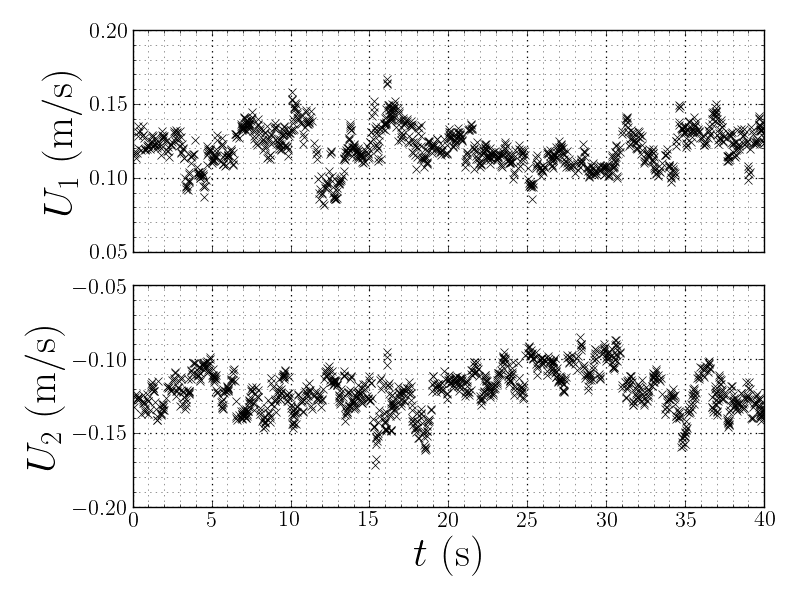
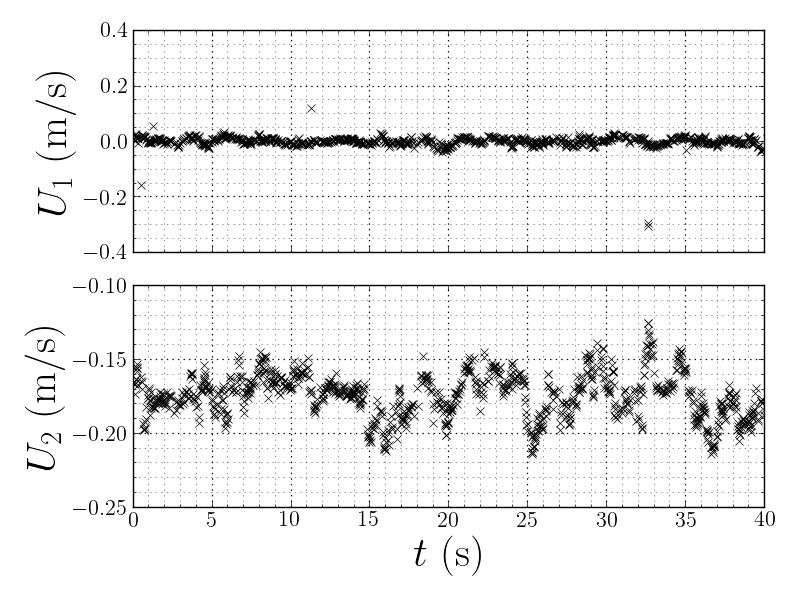
Added trasform for 45 deg probe angle

diff --git a/code/processingScript.py b/code/processingScript.py
@@ -15,6 +15,7 @@ import pandas as pd
 import glob
 from processingFunctions import txtToDataFrame
 from processingFunctions import timeAverage
+from processingFunctions import transform
 from FilterFunctions import Filter
 #
 ##########################################################################################
@@ -27,19 +28,15 @@ saveFil = True
 writeSpikeFrac = False
 #
 rawPathNames = 	[
-				'../data/rawData/dataQualityTests/8Hz/rotation0/angle0/*.txt',
-				'../data/rawData/dataQualityTests/8Hz/rotation0/angle2p7/*.txt',
-				'../data/rawData/dataQualityTests/8Hz/rotation90/angle0/*.txt',
-				'../data/rawData/dataQualityTests/8Hz/rotation90/angle2p7/*.txt',
-				'../data/rawData/dataQualityTests/8Hz/rotation45/angle0/*.txt',
-				'../data/rawData/dataQualityTests/8Hz/rotation45/angle2p7/*.txt',
+				'../data/rawData/dataQualityTests/8Hz/profiles/rotation0/*.txt',
+				'../data/rawData/dataQualityTests/8Hz/profiles/rotation45/*.txt',
 			]
 #
 #"../data/rawData/smoothPlate/4Hz/x400/1703XX_4Hz_x400/*.txt"
 #"../data/rawData/smoothPlate/16Hz/x400/170816_16Hz_x400/*.txt",
 #		"../data/rawData/smoothPlate/8Hz/x400/171214_8Hz_x400/*.txt"
 filterType = [	#'movingAverageFilter',
-#			'movingAverageFilter',
+			'movingAverageFilter',
 			'movingAverageFilter',
 #			'movingAverageFilter',
 #			'movingAverageFilterReynoldsStresses',
@@ -48,10 +45,11 @@ filterType = [	#'movingAverageFilter',
 #			'movingAverageFilterReynoldsStresses',
 #			'movingAverageFilterReynoldsStresses'
 		]
-filLoops = 	[0]#[1,2,1,2]# 0, 1, 2, 1, 2]
-NstdDev = 	[0]#[4,4,2,2]# 0, 4, 4, 2, 2]
-avWindow = [50]#,50]#[50, 50, 50, 50]
-saveNames = ['raw']#,'w50_MA_high']#['w50_MA_min', 'w50_MA_low','w50_MA_med','w50_MA_high']#['basicMin','basicMed']#'raw','min','low','med','high']
+filLoops = 	[0,2]#[1,2,1,2]# 0, 1, 2, 1, 2]
+NstdDev = 	[0,2]#[4,4,2,2]# 0, 4, 4, 2, 2]
+avWindow = [50,50]#,50]#[50, 50, 50, 50]
+probeRotationAngle = [0,45]
+saveNames = ['raw','w50_MA_high']#,'w50_MA_high']#['w50_MA_min', 'w50_MA_low','w50_MA_med','w50_MA_high']#['basicMin','basicMed']#'raw','min','low','med','high']
 #
 if writeData == True:
 	for j in range(len(rawPathNames)):
@@ -61,7 +59,7 @@ if writeData == True:
 			print(rawPath)
 			for fileName in glob.glob(rawPath):
 				print(fileName)				
-				td = txtToDataFrame(fileName)
+				tData = txtToDataFrame(fileName)
 #
 ##	3.	filter data
 				if saveFil == True:
@@ -71,13 +69,17 @@ if writeData == True:
 					tempSavePath[tempSavePath.index('rawData')] = 'processedData'			
 					filSaveName = str('/'.join(tempSavePath)+filSaveNameEnd)
 #					print(rawSaveName)
-				if isinstance(td,pd.DataFrame):
-					tempData = Filter(td,filterType[i],'mean',avWindow[i],'none',filLoops[i],NstdDev[i])
+				if isinstance(tData,pd.DataFrame):
+					ttData = Filter(tData,filterType[i],'mean',avWindow[i],'none',filLoops[i],NstdDev[i])
+					if probeRotationAngle[j] == 45:
+						tttData = transform(ttData)
+					else:
+						tttData = ttData
 #					print(filSaveName)
-					tempData.to_pickle(filSaveName)
+					tttData.to_pickle(filSaveName)
 #	
 ##	4.	apply averaging and append a final data series
-					dataNew  = timeAverage(tempData)
+					dataNew  = timeAverage(tttData)
 					dataNew['fileName'] = fileName.split("/")[-1]
 					if not isinstance(data,pd.DataFrame):
 						data = dataNew

diff --git a/code/profileAnalysis.py b/code/profileAnalysis.py
@@ -15,7 +15,8 @@ import matplotlib.pyplot as plt
 ###########################################################################################
 testProfiles = False
 findMeanSpikeFrac = False#True
-testTimeSeries = True
+testTimeSeries = False
+testRotationProfiles = True
 #
 ##	import data
 fileName4Hz = ['../data/processedData/smoothPlate/4Hz/x400/171211_4Hz_x400/4Hz_x400_averaged_raw.pkl',
@@ -50,6 +51,15 @@ fileName8Hz = ['../data/processedData/smoothPlate/8Hz/x400/171214_8Hz_x400/8Hz_x
 		'../data/processedData/smoothPlate/8Hz/x400/171214_8Hz_x400/8Hz_x400_averaged_w50_MA_med.pkl',
 		'../data/processedData/smoothPlate/8Hz/x400/171214_8Hz_x400/8Hz_x400_averaged_w50_MA_high.pkl']
 
+fileNameRotationTests = [
+		'../data/processedData/dataQualityTests/8Hz/profiles/rotation45/8hz_boundary_layer_rotation45_averaged_w50_MA_high.pkl',
+		'../data/processedData/dataQualityTests/8Hz/profiles/rotation0/8hz_boundary_layer_rotation0_averaged_w50_MA_high.pkl',
+		'../data/processedData/dataQualityTests/8Hz/profiles/rotation45/8hz_boundary_layer_rotation45_averaged_raw.pkl',
+		'../data/processedData/dataQualityTests/8Hz/profiles/rotation0/8hz_boundary_layer_rotation0_averaged_raw.pkl'	,	
+				]
+
+rotationTestLabels = ['45 deg, fil','fil','45 deg, raw','raw']
+
 markers = ['x','o','v','s','*','+','^','.','<','>','p']
 labels =  ['raw','MA, min', 'MA, med', 'MARS, min', 'MARS, low', 'MARS, med', 'MARS, high', 'MA W50, min', 'MA W50, low', 'MA W50, med', 'MA W50, high']
 
@@ -83,6 +93,37 @@ def plotter(X,Y,dataLabels,markers,xLabel,yLabel,writeName):
 	plt.close()
 #
 ###########################################################################################################
+if testRotationProfiles == True:
+#
+	data = [	pd.read_pickle(fileNameRotationTests[0]),
+			pd.read_pickle(fileNameRotationTests[1]),
+			pd.read_pickle(fileNameRotationTests[2]),
+			pd.read_pickle(fileNameRotationTests[3]),
+			  ]
+#
+#
+##	1.	test effect of filtering method
+##			-	raw
+##			-	basic, minimal filtering
+##			-	RSM,	 minimal filtering
+##			-	basic, medium filtering
+##			-	RSM,	 medium filtering
+	var = ["UxMean","uxRMS","uyRMS","uv"]
+	ylabels = [r'$\mu_u$ (m/s)',r'$\sigma_u$ (m/s)',r'$\sigma_v$ (m/s)',r'$\gamma_{uv}$, (m\textsuperscript{2}/s\textsuperscript{2})']
+	writeNames = [	str('../data/processedData/figures/dataQualityTests/rotationTest_Uprofile.png'),
+					str('../data/processedData/figures/dataQualityTests/rotationTest_uRMSprofile.png'),
+					str('../data/processedData/figures/dataQualityTests/rotationTest_vRMSprofile.png'),
+					str('../data/processedData/figures/dataQualityTests/rotationTest_uvProfile.png')
+				]
+	legend = True
+	for i in range(len(var)):
+		plotter(	[data[0]["z"],data[1]["z"],data[2]["z"],data[3]["z"]], [data[0][var[i]],data[1][var[i]],data[2][var[i]],data[3][var[i]]],
+				[rotationTestLabels[0],rotationTestLabels[1],rotationTestLabels[2],rotationTestLabels[3]], [markers[0],markers[1],markers[2],markers[3]],
+				r'$y$ (mm)', ylabels[i],writeNames[i])
+		legend = False
+
+
+
 
 if findMeanSpikeFrac == True:
 	for j in range(len(nameEnd)):

diff --git a/code/timeSeriesAnalysis.py b/code/timeSeriesAnalysis.py
@@ -52,27 +52,19 @@ def timeSeriesPlotter(df,saveName):
 
 
 timeSeries = [
-			'.000001.pkl',
-			'.000002.pkl',
-			'.000003.pkl',
+##			'.000001.pkl',
+##			'.000002.pkl',
+			'.000010.pkl',
 		]		
 
 fileNamePre = [
-			'../data/processedData/dataQualityTests/8Hz/rotation0/angle0/timeSeries/raw/raw_8hz_rotation0_nodip',
-			'../data/processedData/dataQualityTests/8Hz/rotation0/angle2p7/timeSeries/raw/raw_8hz_rotation0_dip',
-			'../data/processedData/dataQualityTests/8Hz/rotation90/angle0/timeSeries/raw/raw_8hz_rotation90_nodip',
-			'../data/processedData/dataQualityTests/8Hz/rotation90/angle2p7/timeSeries/raw/raw_8hz_rotation90_dip',
-			'../data/processedData/dataQualityTests/8Hz/rotation45/angle0/timeSeries/raw/raw_8hz_rotation45_nodip',
-			'../data/processedData/dataQualityTests/8Hz/rotation45/angle2p7/timeSeries/raw/raw_8hz_rotation45_dip',
+			'../data/processedData/dataQualityTests/8Hz/profiles/rotation0/timeSeries/raw/raw_8hz_boundary_layer_rotation0',
+			'../data/processedData/dataQualityTests/8Hz/profiles/rotation45/timeSeries/raw/raw_8hz_boundary_layer_rotation45',
 		]
 
 saveNames = [
-			'../data/processedData/figures/dataQualityTests/rotation0_nodip.png',
-			'../data/processedData/figures/dataQualityTests/rotation0_dip.png',
-			'../data/processedData/figures/dataQualityTests/rotation45_nodip.png',
-			'../data/processedData/figures/dataQualityTests/rotation45_dip.png',
-			'../data/processedData/figures/dataQualityTests/rotation90_nodip.png',
-			'../data/processedData/figures/dataQualityTests/rotation90_dip.png',
+			'../data/processedData/figures/dataQualityTests/rotation0_profile.png',
+			'../data/processedData/figures/dataQualityTests/rotation45_profile.png',
 		]
 
 for f in range(len(fileNamePre)):

diff --git a/code/processingFunctions.py b/code/processingFunctions.py
@@ -141,6 +141,19 @@ def txtToDataFrame (fileName):
 	else:
 		return np.nan
 ###########################################################################################
+#
+##		transform function to account for probe rotation of 45 deg
+def transform(df):
+	tUx = df['Ux'].as_matrix()
+	tUy = df['Uy'].as_matrix()
+	Ux = np.divide(1,np.sqrt(2))*(tUx-tUy)
+	Uy = np.divide(1,np.sqrt(2))*(tUx+tUy)
+	df['Ux'] = pd.Series(Ux)
+	df['Uy'] = pd.Series(Uy)
+	return df
+
+
+###########################################################################################
 def txtToGridFrame (fileName):
 #	Open the input file and store the line data as 'content'
 	with open(fileName) as f:
